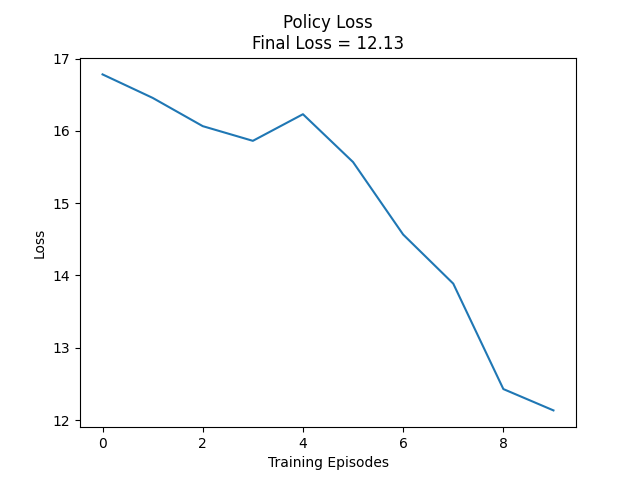
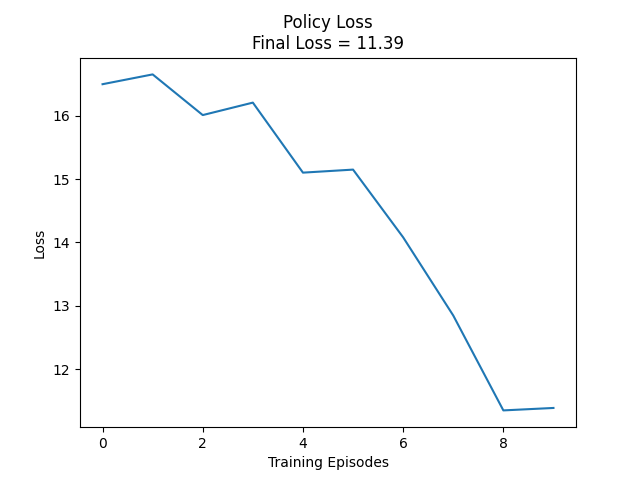
add target value network

diff --git a/Utils/train.py b/Utils/train.py
@@ -123,7 +123,7 @@ class PolicyIteration_Solver(Solver):
         return output
 
 class PPO_Solver(Solver):
-    def __init__(self, markov_decision_process = None, value_model_name = "discretized_feedforward", value_hidden_dim_lst = [10, 10], value_activation_lst = ["relu", "relu"], value_batch_norm = False, value_lr = 1e-2, value_epoch = 1, value_batch = 100, value_decay = 0.1, value_scheduler_step = 10000, value_solver = "Adam", value_retrain = False, policy_model_name = "discretized_feedforward", policy_hidden_dim_lst = [10, 10], policy_activation_lst = ["relu", "relu"], policy_batch_norm = False, policy_lr = 1e-2, policy_epoch = 1, policy_batch = 100, policy_decay = 0.1, policy_scheduler_step = 10000, policy_solver = "Adam", policy_retrain = False, descriptor = "PPO", dir = ".", device = "cpu", num_itr = 100, num_episodes = 100, ckpt_freq = 100, benchmarking_policy = "uniform", eps = 0.2, policy_syncing_freq = 1, n_cpu = 1, lazy_removal = False):
+    def __init__(self, markov_decision_process = None, value_model_name = "discretized_feedforward", value_hidden_dim_lst = [10, 10], value_activation_lst = ["relu", "relu"], value_batch_norm = False, value_lr = 1e-2, value_epoch = 1, value_batch = 100, value_decay = 0.1, value_scheduler_step = 10000, value_solver = "Adam", value_retrain = False, policy_model_name = "discretized_feedforward", policy_hidden_dim_lst = [10, 10], policy_activation_lst = ["relu", "relu"], policy_batch_norm = False, policy_lr = 1e-2, policy_epoch = 1, policy_batch = 100, policy_decay = 0.1, policy_scheduler_step = 10000, policy_solver = "Adam", policy_retrain = False, descriptor = "PPO", dir = ".", device = "cpu", num_itr = 100, num_episodes = 100, ckpt_freq = 100, benchmarking_policy = "uniform", eps = 0.2, policy_syncing_freq = 1, value_syncing_freq = 1, n_cpu = 1, lazy_removal = False):
         super().__init__(type = "sequential", markov_decision_process = markov_decision_process)
         ## Store some commonly used variables
         self.value_input_dim = len(self.markov_decision_process.state_counts)
@@ -141,6 +141,7 @@ class PPO_Solver(Solver):
         self.benchmarking_policy = benchmarking_policy
         self.eps = eps
         self.policy_syncing_freq = policy_syncing_freq
+        self.value_syncing_freq = value_syncing_freq
         self.device = device
         self.payoff_map = self.payoff_map.to(device = self.device)
         self.one_minus_eps = torch.tensor(1 - eps).to(device = self.device)
@@ -153,6 +154,7 @@ class PPO_Solver(Solver):
         self.value_model = self.get_value_model()
         self.policy_model = self.get_policy_model()
         self.benchmark_policy_model = copy.deepcopy(self.policy_model)
+        self.benchmark_value_model = copy.deepcopy(self.value_model)
         self.value_optimizer, self.value_scheduler = self.value_model_factory.prepare_optimizer()
         self.policy_optimizer, self.policy_scheduler = self.policy_model_factory.prepare_optimizer()
         self.markov_decision_process_pg = copy.deepcopy(markov_decision_process)
@@ -165,10 +167,10 @@ class PPO_Solver(Solver):
     
     def get_advantange(self, curr_state_counts, next_state_counts, action_id, ts, next_ts):
         payoff = self.payoff_map[ts, action_id]
-        curr_value = self.value_model((ts, curr_state_counts)).reshape((-1,))
+        curr_value = self.benchmark_value_model((ts, curr_state_counts)).reshape((-1,))
         ## TODO: Fix the bug in ts
         if next_ts < self.time_horizon - 1:
-            next_value = self.value_model((next_ts, next_state_counts)).reshape((-1,))
+            next_value = self.benchmark_value_model((next_ts, next_state_counts)).reshape((-1,))
         else:
             next_value = 0
         return payoff + next_value - curr_value
@@ -385,6 +387,8 @@ class PPO_Solver(Solver):
                 self.policy_optimizer.step()
                 self.policy_scheduler.step()
                 policy_dct = None
+            if itr % self.value_syncing_freq == 0:
+                self.benchmark_value_model = copy.deepcopy(self.value_model)
             if itr % self.policy_syncing_freq == 0:
                 self.benchmark_policy_model = copy.deepcopy(self.policy_model)
             ## Save loss data
@@ -403,6 +407,7 @@ class PPO_Solver(Solver):
                 payoff_val = float(payoff_lst[-1].data)
                 payoff_arr.append(payoff_val)
         self.benchmark_policy_model = copy.deepcopy(self.policy_model)
+        self.benchmark_value_model = copy.deepcopy(self.value_model)
         # Save final model
 #         self.value_model_factory.update_model(self.value_model, update_ts = False)
 #         self.policy_model_factory.update_model(self.benchmark_policy_model, update_ts = False)
